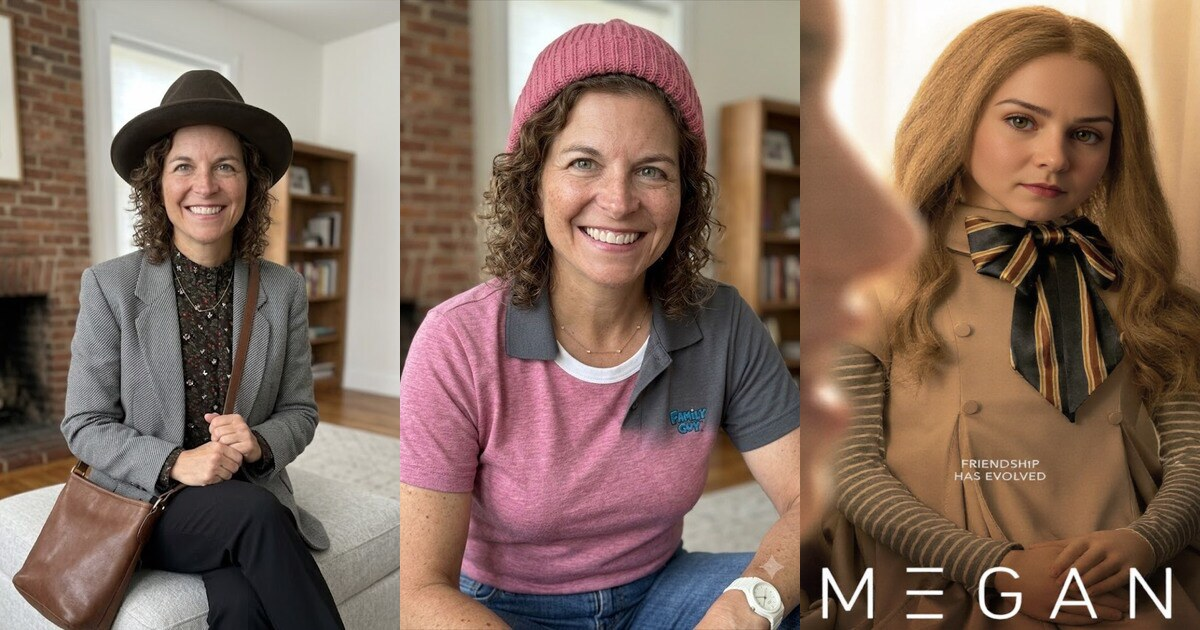
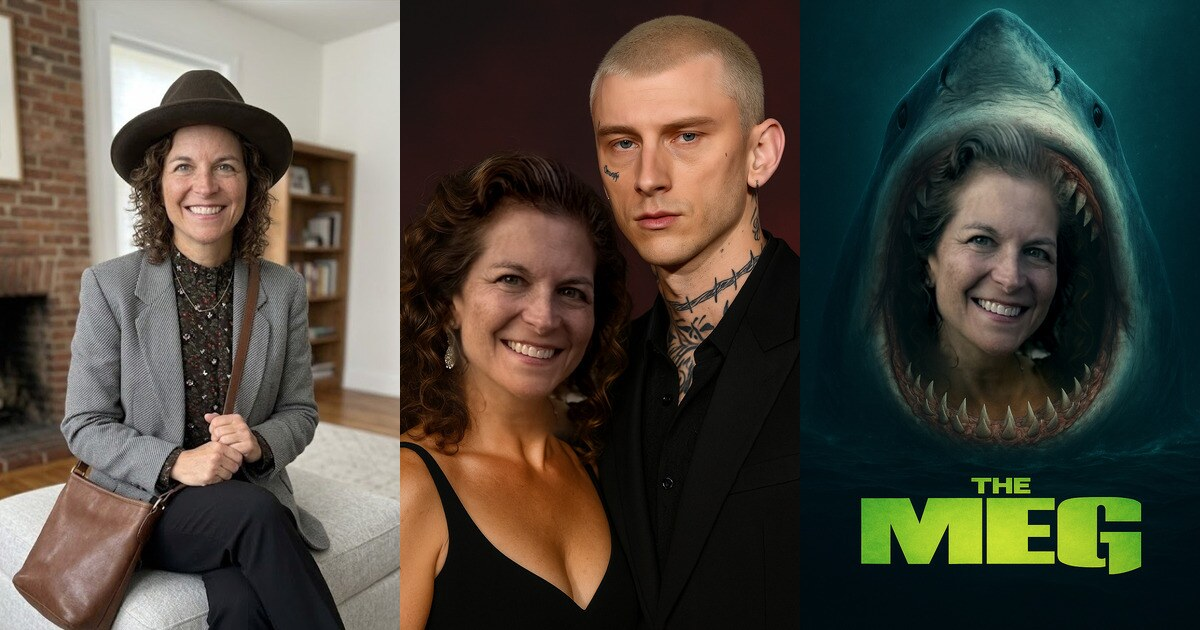
Replace Megs page with 7-image gallery + fullscreen lightbox

diff --git a/megs/index.html b/megs/index.html
@@ -14,25 +14,45 @@
 <meta name="twitter:description" content="Megan, doing the rounds. 🎤">
 <meta name="twitter:image" content="https://cooptowntrain.github.io/gem/megs/og-megs.jpg">
 <link rel="preconnect" href="https://fonts.googleapis.com"><link rel="preconnect" href="https://fonts.gstatic.com" crossorigin>
-<link href="https://fonts.googleapis.com/css2?family=Poppins:wght@500;600;800&display=swap" rel="stylesheet">
+<link href="https://fonts.googleapis.com/css2?family=Poppins:wght@500;600;700;800&display=swap" rel="stylesheet">
 <style>
-*{box-sizing:border-box}
-body{margin:0;background:linear-gradient(160deg,#ff2d95,#8a2be2 55%,#22c9ff);font-family:'Poppins',system-ui,sans-serif;color:#fff;min-height:100vh;padding:34px 16px 60px}
-.h{text-align:center;max-width:900px;margin:0 auto 24px}
-.h h1{font-size:clamp(30px,7vw,46px);font-weight:800;text-shadow:2px 3px 0 rgba(0,0,0,.18);margin:0 0 6px}
-.h p{font-size:15px;opacity:.95;margin:0}
-.grid{display:flex;flex-wrap:wrap;gap:24px;justify-content:center;align-items:flex-start;max-width:1180px;margin:0 auto}
-.card{width:340px;max-width:100%;background:rgba(12,6,26,.26);border:1px solid rgba(255,255,255,.35);border-radius:20px;overflow:hidden;box-shadow:0 14px 34px rgba(0,0,0,.28)}
-.imgbox{position:relative;width:100%;aspect-ratio:4/5;overflow:hidden;background:#160b28}
-.imgbox .bg{position:absolute;inset:0;background-size:cover;background-position:center;filter:blur(22px) brightness(.55);transform:scale(1.2)}
-.imgbox img{position:relative;z-index:1;width:100%;height:100%;object-fit:contain;display:block}
-.cap{padding:13px 16px 17px;text-align:center}
-.cap .n{font-size:21px;font-weight:800}
-.cap .s{font-size:14px;opacity:.9;margin-top:2px}
+ *{box-sizing:border-box;margin:0;padding:0}
+ body{background:linear-gradient(160deg,#ff2d95,#8a2be2 55%,#22c9ff);background-attachment:fixed;font-family:'Poppins',system-ui,sans-serif;color:#fff;min-height:100vh;padding:34px 16px 70px}
+ .h{text-align:center;max-width:900px;margin:0 auto 26px}
+ .h h1{font-size:clamp(30px,7vw,50px);font-weight:800;text-shadow:2px 3px 0 rgba(0,0,0,.18);margin-bottom:6px}
+ .h p{font-size:15px;opacity:.95}
+ .grid{display:flex;flex-wrap:wrap;gap:18px;justify-content:center;max-width:1200px;margin:0 auto}
+ .card{flex:0 0 250px;max-width:100%;background:rgba(12,6,26,.28);border:1px solid rgba(255,255,255,.32);border-radius:18px;overflow:hidden;box-shadow:0 12px 30px rgba(0,0,0,.28);transition:transform .12s ease}
+ .card:hover{transform:translateY(-4px)}
+ .shot{width:100%;aspect-ratio:2/3;object-fit:cover;display:block;cursor:zoom-in}
+ .cap{padding:13px 14px 16px;text-align:center}
+ .cap .n{font-size:19px;font-weight:800}
+ #lb{position:fixed;inset:0;background:rgba(6,3,12,.96);display:none;align-items:center;justify-content:center;z-index:9999;cursor:zoom-out;padding:14px}
+ #lb img{max-width:100%;max-height:100%;object-fit:contain;border-radius:8px;box-shadow:0 20px 60px rgba(0,0,0,.6)}
+ #lb .hint{position:fixed;top:14px;right:18px;font-size:13px;opacity:.7;font-weight:600}
 </style></head><body>
-<div class="h"><h1>🎤 The Many Megs</h1><p>Megan, doing the rounds.</p></div>
-<div class="grid">
-  <div class="card"><div class="imgbox"><div class="bg" style="background-image:url(meg-ryan.jpg)"></div><img src="meg-ryan.jpg" alt="Megan as Meg Ryan"></div><div class="cap"><div class="n">Meg Ryan</div><div class="s">When Harry Met Sally</div></div></div>
-  <div class="card"><div class="imgbox"><div class="bg" style="background-image:url(meg-griffin.jpg)"></div><img src="meg-griffin.jpg" alt="Megan as Meg Griffin"></div><div class="cap"><div class="n">Meg Griffin</div><div class="s">Family Guy</div></div></div>
-  <div class="card"><div class="imgbox"><div class="bg" style="background-image:url(mm-m3gan.png)"></div><img src="mm-m3gan.png" alt="M3GAN"></div><div class="cap"><div class="n">M3GAN</div><div class="s">The movie</div></div></div>
-</div></body></html>
+ <div class="h"><h1>🎤 The Many Megs</h1><p>Tap any picture to see it full screen.</p></div>
+ <div class="grid" id="grid"></div>
+ <div id="lb"><img id="lbimg" src="" alt=""><div class="hint">tap to close</div></div>
+<script>
+ var megs=[
+   {f:'1-meg-ryan.jpg',n:'Meg Ryan'},
+   {f:'2-meg-griffin.jpg',n:'Meg Griffin'},
+   {f:'3-m3gan.jpg',n:'M3GAN'},
+   {f:'4-megan-fox.jpg',n:'Megan Fox'},
+   {f:'5-megan-mullally.jpg',n:'Megan Mullally'},
+   {f:'6-meghan-markle.jpg',n:'Meghan Markle'},
+   {f:'7-the-meg.jpg',n:'The Meg'}
+ ];
+ document.getElementById('grid').innerHTML=megs.map(function(m){
+   return '<div class="card"><img class="shot" src="'+m.f+'" alt="'+m.n+'" loading="lazy"><div class="cap"><div class="n">'+m.n+'</div></div></div>';
+ }).join('');
+ var lb=document.getElementById('lb'), lbimg=document.getElementById('lbimg');
+ function openLb(s){lbimg.src=s;lb.style.display='flex';if(lb.requestFullscreen){lb.requestFullscreen().catch(function(){});}}
+ function closeLb(){lb.style.display='none';lbimg.src='';if(document.fullscreenElement){document.exitFullscreen().catch(function(){});}}
+ document.querySelectorAll('.shot').forEach(function(img){img.addEventListener('click',function(){openLb(img.src);});});
+ lb.addEventListener('click',closeLb);
+ document.addEventListener('keydown',function(e){if(e.key==='Escape')closeLb();});
+ document.addEventListener('fullscreenchange',function(){if(!document.fullscreenElement)lb.style.display='none';});
+</script>
+</body></html>
